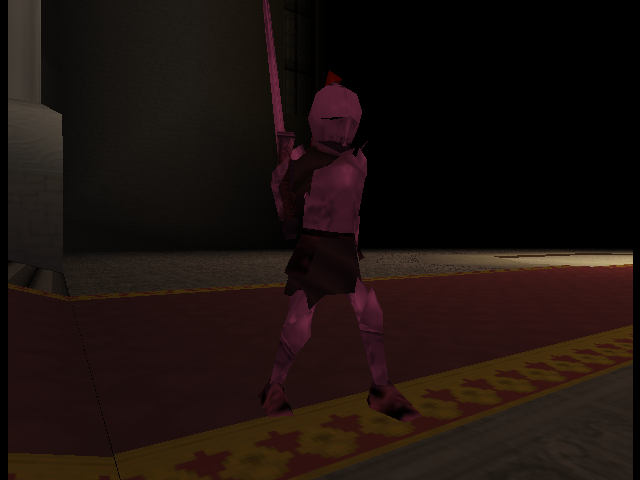
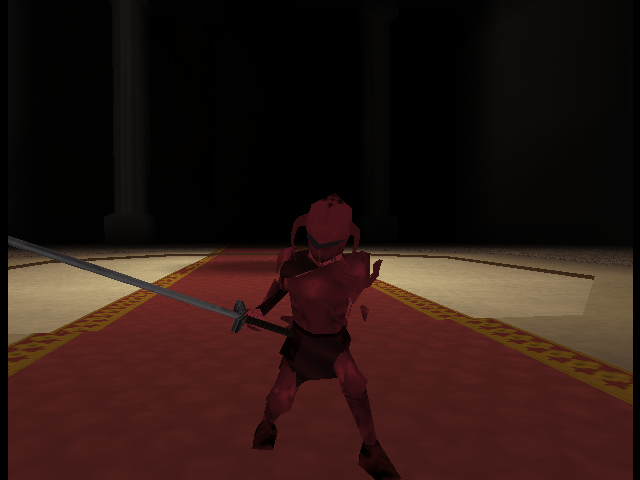
Fallen Warrior: its crimson a shade brighter (it was lost against the dark hall); README: its new portrait and line

diff --git a/src/game/fallen_knight/fallen_knight.c b/src/game/fallen_knight/fallen_knight.c
@@ -1689,8 +1689,8 @@ void fallen_knight_draw(Boss* b)
     uint8_t amb[4] = { colorAmbient[0], colorAmbient[1], colorAmbient[2], 255 };
     t3d_light_set_ambient(flash ? (uint8_t[4]){ 255, 120, 120, 255 } : amb);
     static const char *MATS[] = { "knight", "head", "chainmail", "cloth", "straps", "sword", "black" };
-    static const color_t COLS[] = { RGBA32(74, 20, 26, 255), RGBA32(74, 20, 26, 255), RGBA32(96, 30, 36, 255), RGBA32(44, 14, 18, 255),
-                                    RGBA32(58, 16, 20, 255), RGBA32(84, 80, 82, 255), RGBA32(20, 16, 18, 255) };
+    static const color_t COLS[] = { RGBA32(100, 27, 34, 255), RGBA32(100, 27, 34, 255), RGBA32(128, 40, 48, 255), RGBA32(56, 18, 22, 255),
+                                    RGBA32(78, 22, 27, 255), RGBA32(84, 80, 82, 255), RGBA32(20, 16, 18, 255) };
     static bool tinted;     // (its own model: its colours set once)
     if (!tinted) {
         for (int i = 0; i < (int)(sizeof MATS / sizeof MATS[0]); i++) { T3DMaterial *m = t3d_model_get_material(s.body, MATS[i]); if (m) m->primColor = COLS[i]; }

diff --git a/README.md b/README.md
@@ -70,7 +70,7 @@ Guardian Unbound (the Guardian's second form), plus three **Bonus** fights on th
 | Guardian Unbound | Fallen Warrior (Bonus) |
 |---|---|
 | <img src="docs/media/boss_guardian_unbound.png" width="400"> | <img src="docs/media/boss_fallen_warrior.png" width="400"> |
-| The Guardian, risen in gold, his sword floating over him: a barrage from the air. | A crimson knight mirrors your image: he combos, Halfmoon, Moon Blade, rolls and counters, a leaping plunge. |
+| The Guardian, risen in gold, his sword floating over him: a barrage from the air. | The king's fallen champion, horned and crimson: he combos, Halfmoon, Moon Blade, rolls and counters, a leaping plunge. |
 | **The Shackled Sun (Bonus)** | **Shadowborne (Bonus)** |
 | <img src="docs/media/boss_shackled_sun.png" width="400"> | <img src="docs/media/boss_shadowborn.png" width="400"> |
 | A chained sun with an uncanny face: its chains lash and sweep, sunbrand crosses fly, and once unshackled it eclipses. | A crystal dragon on great wings: claws, stomps, charges, lasers, throws fire, and strikes with its tail. |
